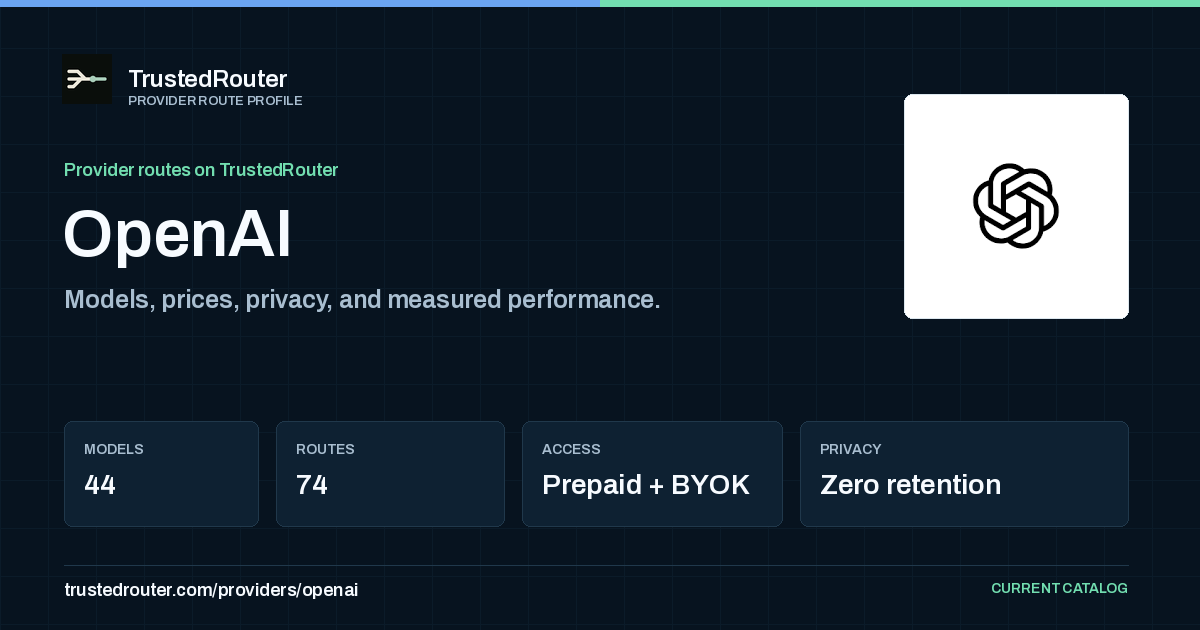
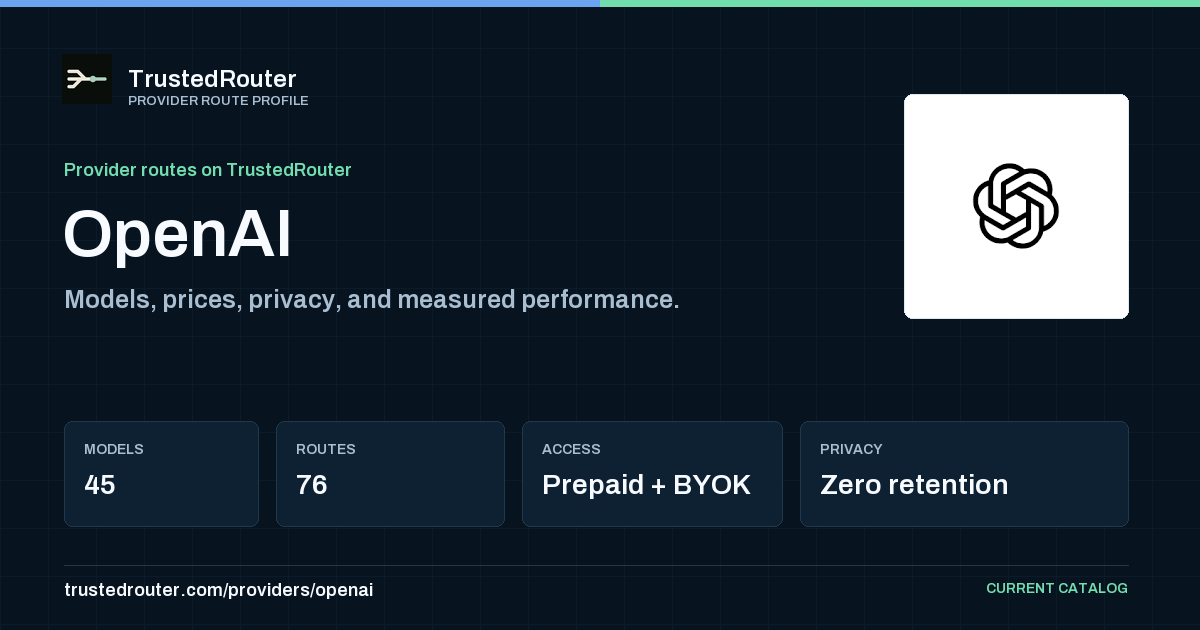
feat: add OpenAI GPT-6 Astra

diff --git a/tests/test_automatic_provider_discovery.py b/tests/test_automatic_provider_discovery.py
@@ -44,6 +44,12 @@ def test_openai_discovers_only_live_priced_stable_chat_models(
         lambda **_kwargs: ProviderPricingResult(
             slug="openai",
             prices={
+                "openai/gpt-6-astra": ModelPrice(
+                    tiers=[
+                        PriceTier(272_000, 10_000_000, 50_000_000, 1_000_000),
+                        PriceTier(None, 20_000_000, 75_000_000, 2_000_000),
+                    ]
+                ),
                 "openai/gpt-5.6-sol": ModelPrice(800_000, 4_000_000),
                 "openai/gpt-image-2": ModelPrice(1_000_000, 2_000_000),
             },
@@ -56,6 +62,7 @@ def test_openai_discovers_only_live_priced_stable_chat_models(
         "fetch_json",
         lambda *_args, **_kwargs: {
             "data": [
+                {"id": "gpt-6-astra", "created": 456},
                 {"id": "gpt-5.6-sol", "created": 123},
                 {"id": "gpt-5.6-sol-2026-07-09"},
                 {"id": "gpt-image-2"},
@@ -74,20 +81,51 @@ def test_openai_discovers_only_live_priced_stable_chat_models(
     notes = openai.write_provider_manifest(result)
 
     raw = json.loads(manifest.read_text(encoding="utf-8"))
-    assert [row["id"] for row in raw["models"]] == ["openai/gpt-5.6-sol"]
-    assert raw["models"][0]["upstream_id"] == "gpt-5.6-sol"
-    assert raw["models"][0]["input_token_price_per_m"] == 800_000
+    assert [row["id"] for row in raw["models"]] == [
+        "openai/gpt-5.6-sol",
+        "openai/gpt-6-astra",
+    ]
+    astra = raw["models"][1]
+    assert astra["upstream_id"] == "gpt-6-astra"
+    assert astra["context_length"] == 1_050_000
+    assert astra["max_output_tokens"] == 128_000
+    assert astra["input_modalities"] == ["text", "image"]
+    assert astra["supported_features"] == [
+        "function-calling",
+        "reasoning-effort",
+        "structured-output",
+    ]
+    assert astra["price_tiers"] == [
+        {
+            "max_prompt_tokens": 272_000,
+            "input_token_price_per_m": 10_000_000,
+            "output_token_price_per_m": 50_000_000,
+            "cached_input_token_price_per_m": 1_000_000,
+        },
+        {
+            "max_prompt_tokens": None,
+            "input_token_price_per_m": 20_000_000,
+            "output_token_price_per_m": 75_000_000,
+            "cached_input_token_price_per_m": 2_000_000,
+        },
+    ]
     assert probes == [
         {
             "base_url": openai.BASE_URL,
             "api_key": "test-key",
             "model": "gpt-5.6-sol",
             "max_tokens_field": "max_completion_tokens",
-        }
+        },
+        {
+            "base_url": openai.BASE_URL,
+            "api_key": "test-key",
+            "model": "gpt-6-astra",
+            "max_tokens_field": "max_completion_tokens",
+        },
     ]
     assert notes == [
         "openai: refreshed provider_models/openai.json "
-        "(1 priced rows, appended 1)"
+        "(2 priced rows, appended 2)"
     ]
 
 
@@ -160,6 +198,30 @@ def test_openai_parser_reads_models_hidden_behind_all_models_control() -> None:
         "prompt_micro_per_m": 1_750_000,
         "completion_micro_per_m": 14_000_000,
         "prompt_cached_micro_per_m": 175_000,
+    }
+
+
+def test_openai_parser_discovers_astra_without_a_handwritten_price_mapping() -> None:
+    parsed = openai_parser.parse(
+        "| gpt-6-astra | $10.00 | $1.00 | $12.50 | $50.00 | "
+        "$20.00 | $2.00 | $25.00 | $75.00 |"
+    )
+
+    assert parsed["openai/gpt-6-astra"] == {
+        "tiers": [
+            {
+                "max_prompt_tokens": 272_000,
+                "prompt_micro_per_m": 10_000_000,
+                "completion_micro_per_m": 50_000_000,
+                "prompt_cached_micro_per_m": 1_000_000,
+            },
+            {
+                "max_prompt_tokens": None,
+                "prompt_micro_per_m": 20_000_000,
+                "completion_micro_per_m": 75_000_000,
+                "prompt_cached_micro_per_m": 2_000_000,
+            },
+        ]
     }
 
 

diff --git a/tests/test_catalog_routing_contracts.py b/tests/test_catalog_routing_contracts.py
@@ -483,6 +483,33 @@ def test_grok_46_uses_xai_native_model_id_and_long_context_pricing() -> None:
         )
 
 
+def test_openai_astra_uses_first_party_long_context_vision_route() -> None:
+    model = MODELS["openai/gpt-6-astra"]
+    prepaid = MODEL_ENDPOINTS["openai/gpt-6-astra@openai/prepaid"]
+    byok = MODEL_ENDPOINTS["openai/gpt-6-astra@openai/byok"]
+
+    assert model.provider == "openai"
+    assert model.context_length == 1_050_000
+    assert model.input_modalities == ("text", "image")
+    assert {"tools", "reasoning", "reasoning_effort", "structured_outputs"} <= set(
+        model.supported_parameters
+    )
+    assert prepaid.upstream_id == "gpt-6-astra"
+    assert byok.upstream_id == "gpt-6-astra"
+    assert [tier.max_prompt_tokens for tier in prepaid.price_tiers] == [272_000, None]
+    assert [
+        (
+            tier.prompt_price_microdollars_per_million_tokens,
+            tier.prompt_cached_price_microdollars_per_million_tokens,
+            tier.completion_price_microdollars_per_million_tokens,
+        )
+        for tier in prepaid.price_tiers
+    ] == [
+        (10_550_000, 1_055_000, 52_750_000),
+        (21_100_000, 2_110_000, 79_125_000),
+    ]
+
+
 def test_qwen_38_routes_only_through_hosts_with_verified_pricing() -> None:
     model_id = "qwen/qwen3.8-max"
 

diff --git a/scripts/pricing/providers/openai.py b/scripts/pricing/providers/openai.py
@@ -32,6 +32,7 @@ MANIFEST_PATH = (
 )
 
 EXPECTED_MODELS = [
+    "openai/gpt-6-astra",
     "openai/gpt-5.6-sol",
     "openai/gpt-5.6-terra",
     "openai/gpt-5.6-luna",
@@ -39,6 +40,20 @@ EXPECTED_MODELS = [
     "openai/gpt-5.4",
     "openai/gpt-5.4-mini",
 ]
+
+_MODEL_METADATA_OVERRIDES: dict[str, dict[str, Any]] = {
+    "openai/gpt-6-astra": {
+        "context_length": 1_050_000,
+        "max_output_tokens": 128_000,
+        "input_modalities": ["text", "image"],
+        "output_modalities": ["text"],
+        "supported_features": [
+            "function-calling",
+            "reasoning-effort",
+            "structured-output",
+        ],
+    },
+}
 
 _NON_CHAT_MARKERS = (
     "audio",
@@ -102,11 +117,14 @@ def fetch() -> ProviderPricingResult:
     )
     if not discovered:
         raise RuntimeError("openai: no priced chat models found in authenticated catalog")
+    for model_id, metadata in _MODEL_METADATA_OVERRIDES.items():
+        if row := discovered.get(model_id):
+            row.update(metadata)
 
     checked = models_requiring_canary(MANIFEST_PATH, discovered)
     healthy = {
         model_id
-        for model_id in checked
+        for model_id in sorted(checked)
         if probe_openai_chat(
             base_url=BASE_URL,
             api_key=api_key,

diff --git a/tests/test_check_price_coverage.py b/tests/test_check_price_coverage.py
@@ -17,6 +17,7 @@ _NEW_AUTOMATIC_FEED_MODELS = {
     "aion-labs/aion-3.0",
     "arcee-ai/trinity-large-thinking",
     "openai/gpt-5.6-sol",
+    "openai/gpt-6-astra",
     "openai/gpt-oss-120b",
     "upstage/solar-pro4",
     "reka/reka-edge-2603",
@@ -34,6 +35,7 @@ _NEW_AUTOMATIC_FEED_ALIASES = {
     "deepseek-v4-flash",
     "glm-5.2",
     "gpt-5.6-sol",
+    "gpt-6-astra",
     "grok-4.6",
     "mistral-small-2603",
 }
@@ -42,7 +44,7 @@ _NEW_AUTOMATIC_FEED_ROWS = _NEW_AUTOMATIC_FEED_MODELS | _NEW_AUTOMATIC_FEED_ALIA
 
 def _known_provider_model_payload(url: str, _env_names: tuple[str, ...]) -> dict:
     if "api.openai.com" in url:
-        return {"data": [{"id": "gpt-5.6-sol"}]}
+        return {"data": [{"id": "gpt-5.6-sol"}, {"id": "gpt-6-astra"}]}
     if "api.x.ai" in url:
         return {"models": [{"id": "grok-4.6"}]}
     if "api.deepseek.com" in url:
